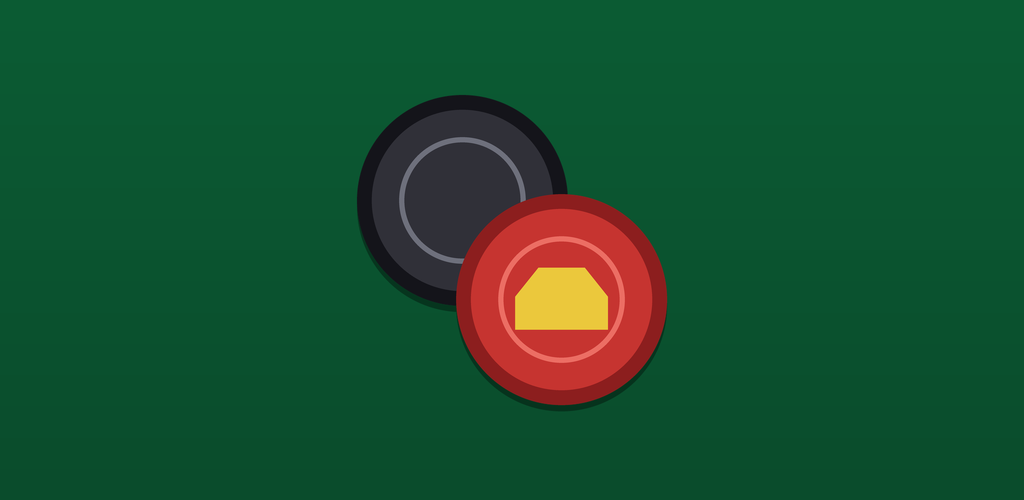
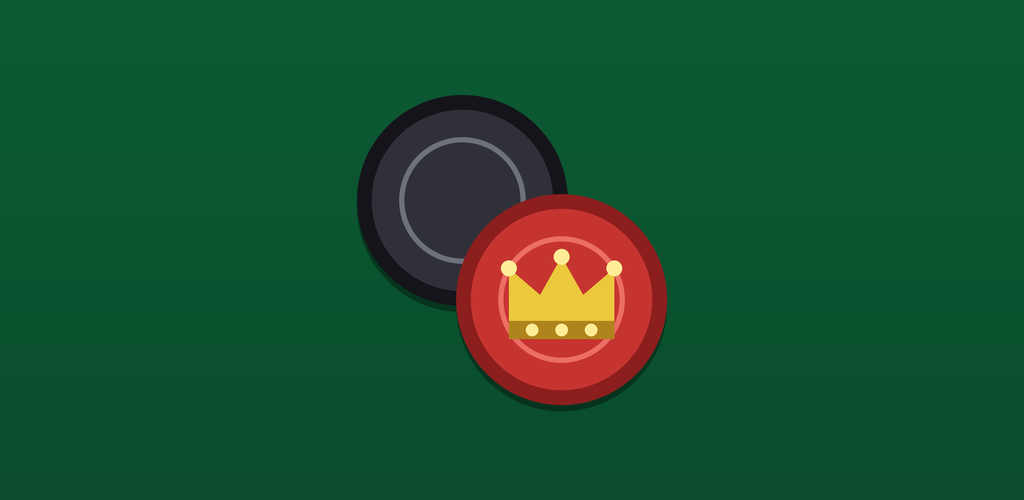
Redraw the king as a jewelled crown
The old five-triangle crown read as a gold blob. The king is now a three-point crown with jewelled tips on a darker band set with three jewels, sized from the piece radius, in render.c and gen_icons.py alike. Launcher, store and App Store icons regenerated.

Changed region(s): [[0.4688, 0.48, 0.625, 0.69]]

diff --git a/src/render.c b/src/render.c
@@ -36,6 +36,8 @@ static const Color BLK_PIECE   = { 48,  48,  56, 255};
 static const Color BLK_HI      = {110, 112, 124, 255};
 static const Color BLK_LO      = { 20,  20,  26, 255};
 static const Color CROWN_GOLD  = {235, 200,  60, 255};
+static const Color CROWN_DARK  = {176, 132,  28, 255};   // crown band
+static const Color CROWN_LIGHT = {255, 236, 150, 255};   // crown jewels
 const Color SEL_RING           = {255, 235, 120, 255};
 static const Color TARGET_DOT  = {255, 235, 120, 180};
 static const Color LASTMOVE    = {255, 235, 120,  70};
@@ -56,17 +58,27 @@ static int scaled(int base_at_72, int sq) {
 // --------------------------------------------------------------------------
 // Pieces (vector art)
 // --------------------------------------------------------------------------
-static void draw_crown(int cx, int cy, int s, int sq, Color col) {
-    // five points joined to a base bar — a compact crown glyph
-    float h = s * 0.5f, w = s * 0.8f;
-    float bot = cy + h * 0.45f, top = cy - h * 0.55f, mid = cy - h * 0.05f;
-    gfx_triangle(cx - w/2, bot, cx - w/2, mid, cx - w/4, top, col);
-    gfx_triangle(cx,       bot, cx - w/4, top, cx + w/4, top, col);
-    gfx_triangle(cx + w/2, mid, cx + w/2, bot, cx + w/4, top, col);
-    gfx_triangle(cx - w/2, bot, cx - w/4, top, cx,       bot, col);
-    gfx_triangle(cx,       bot, cx + w/4, top, cx + w/2, bot, col);
-    int bar = scaled(4, sq);
-    gfx_rect(cx - (int)(w/2), (int)(bot - bar / 2), (int)w, bar, col);
+// A three-point crown on a darker band, jewels on the tips and along the band.
+// Sized from the piece radius `r`. Triangle vertices go apex, base-left,
+// base-right: the counter-clockwise order raylib's DrawTriangle requires.
+static void draw_crown(int cx, int cy, float r, Color gold, Color dark, Color light) {
+    float w = r * 1.00f, h = r * 0.78f;
+    float top = cy - h * 0.52f, bot = cy + h * 0.48f;
+    float band = h * 0.22f, valley = top + h * 0.50f, tip = top + h * 0.14f;
+    float L = cx - w / 2, R = cx + w / 2;
+
+    gfx_rect((int)L, (int)valley, (int)(R - L + 0.5f), (int)(bot - band - valley + 0.5f), gold);
+    gfx_triangle(L,  tip, L,              valley, cx - w * 0.17f, valley, gold);
+    gfx_triangle(cx, top, cx - w * 0.22f, valley, cx + w * 0.22f, valley, gold);
+    gfx_triangle(R,  tip, cx + w * 0.17f, valley, R,              valley, gold);
+    gfx_rect((int)L, (int)(bot - band), (int)(R - L + 0.5f), (int)(band + 0.5f), dark);
+
+    float jr = w * 0.075f;
+    gfx_circle((int)L,  (int)tip, jr, light);
+    gfx_circle(cx,      (int)top, jr, light);
+    gfx_circle((int)R,  (int)tip, jr, light);
+    for (int i = -1; i <= 1; i++)
+        gfx_circle((int)(cx + i * w * 0.28f), (int)(bot - band / 2), jr * 0.8f, light);
 }
 
 static void draw_piece(int cx, int cy, int sq, Square s) {
@@ -80,7 +92,7 @@ static void draw_piece(int cx, int cy, int sq, Square s) {
     gfx_circle(cx, cy, r * 0.86f, base);                           // face
     int ridge = scaled(2, sq);                                     // ridge
     for (int t = 0; t < ridge; t++) gfx_circle_lines(cx, cy, r * 0.6f + t, hi);
-    if (square_is_king(s)) draw_crown(cx, cy, (int)(r * 1.1f), sq, CROWN_GOLD);
+    if (square_is_king(s)) draw_crown(cx, cy, r, CROWN_GOLD, CROWN_DARK, CROWN_LIGHT);
 }
 
 // --------------------------------------------------------------------------

diff --git a/scripts/gen_icons.py b/scripts/gen_icons.py
@@ -3,7 +3,7 @@
 
 The icons are the game itself in miniature: a crowned red king in front of a
 black man, drawn the way render.c draws pieces (shadow, rim, face, ridge ring,
-gold crown), on the felt green of the table. Keeping them generated rather than
+jewelled gold crown), on the felt green of the table. Keeping them generated rather than
 hand-drawn means the palette can never drift from src/render.c, and every size
 is produced from the same geometry.
 
@@ -31,6 +31,8 @@ BLK_PIECE = (48, 48, 56, 255)
 BLK_HI = (110, 112, 124, 255)
 BLK_LO = (20, 20, 26, 255)
 CROWN_GOLD = (235, 200, 60, 255)
+CROWN_DARK = (176, 132, 28, 255)
+CROWN_LIGHT = (255, 236, 150, 255)
 
 SS = 4  # supersample factor; every shape is drawn large and downscaled
 
@@ -39,15 +41,22 @@ def circle(d, cx, cy, r, **kw):
     d.ellipse([cx - r, cy - r, cx + r, cy + r], **kw)
 
 
-def crown(d, cx, cy, s, col):
-    """The five-point crown glyph from draw_crown() in src/render.c."""
-    h, w = s * 0.5, s * 0.8
-    bot, top, mid = cy + h * 0.45, cy - h * 0.55, cy - h * 0.05
-    d.polygon([(cx - w / 2, bot), (cx - w / 2, mid), (cx - w / 4, top), (cx, bot)], fill=col)
-    d.polygon([(cx, bot), (cx - w / 4, top), (cx + w / 4, top)], fill=col)
-    d.polygon([(cx, bot), (cx + w / 4, top), (cx + w / 2, mid), (cx + w / 2, bot)], fill=col)
-    bar = max(1, s * 0.07)
-    d.rectangle([cx - w / 2, bot - bar / 2, cx + w / 2, bot + bar / 2], fill=col)
+def crown(d, cx, cy, r):
+    """The crown from draw_crown() in src/render.c, sized from the piece radius."""
+    w, h = r * 1.00, r * 0.78
+    top, bot = cy - h * 0.52, cy + h * 0.48
+    band, valley, tip = h * 0.22, top + h * 0.50, top + h * 0.14
+    left, right = cx - w / 2, cx + w / 2
+    d.rectangle([left, valley, right, bot - band], fill=CROWN_GOLD)
+    d.polygon([(left, tip), (left, valley), (cx - w * 0.17, valley)], fill=CROWN_GOLD)
+    d.polygon([(cx, top), (cx - w * 0.22, valley), (cx + w * 0.22, valley)], fill=CROWN_GOLD)
+    d.polygon([(right, tip), (cx + w * 0.17, valley), (right, valley)], fill=CROWN_GOLD)
+    d.rectangle([left, bot - band, right, bot], fill=CROWN_DARK)
+    jr = w * 0.075
+    for x, y in ((left, tip), (cx, top), (right, tip)):
+        circle(d, x, y, jr, fill=CROWN_LIGHT)
+    for i in (-1, 0, 1):
+        circle(d, cx + i * w * 0.28, bot - band / 2, jr * 0.8, fill=CROWN_LIGHT)
 
 
 def piece(d, cx, cy, r, red, king):
@@ -58,7 +67,7 @@ def piece(d, cx, cy, r, red, king):
     circle(d, cx, cy, r * 0.86, fill=base)                     # face
     circle(d, cx, cy, r * 0.6, outline=hi, width=max(1, int(r * 0.05)))  # ridge
     if king:
-        crown(d, cx, cy, r * 1.1, CROWN_GOLD)
+        crown(d, cx, cy, r)
 
 
 def compose(size, background, content_scale):
